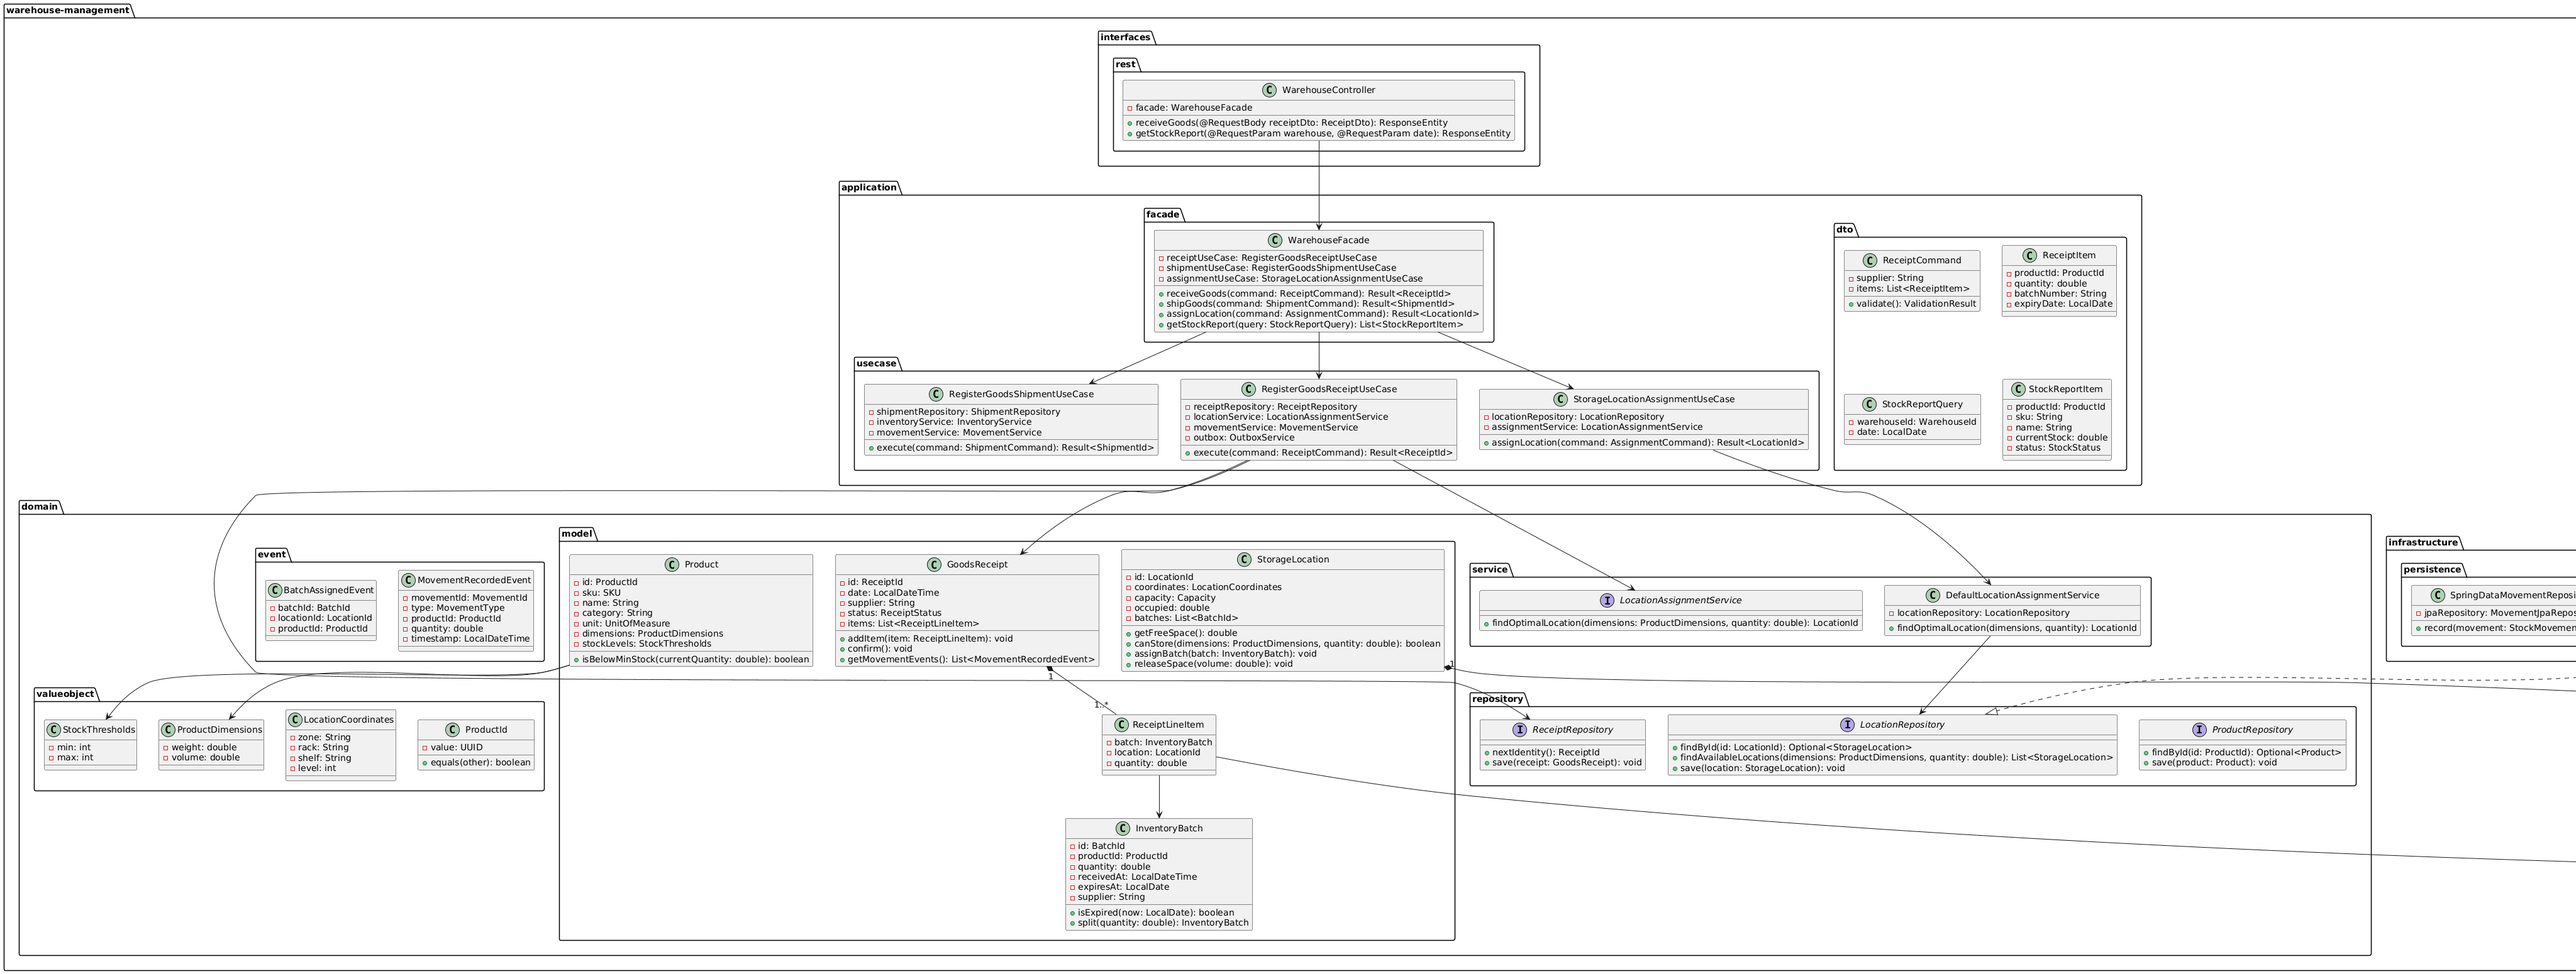
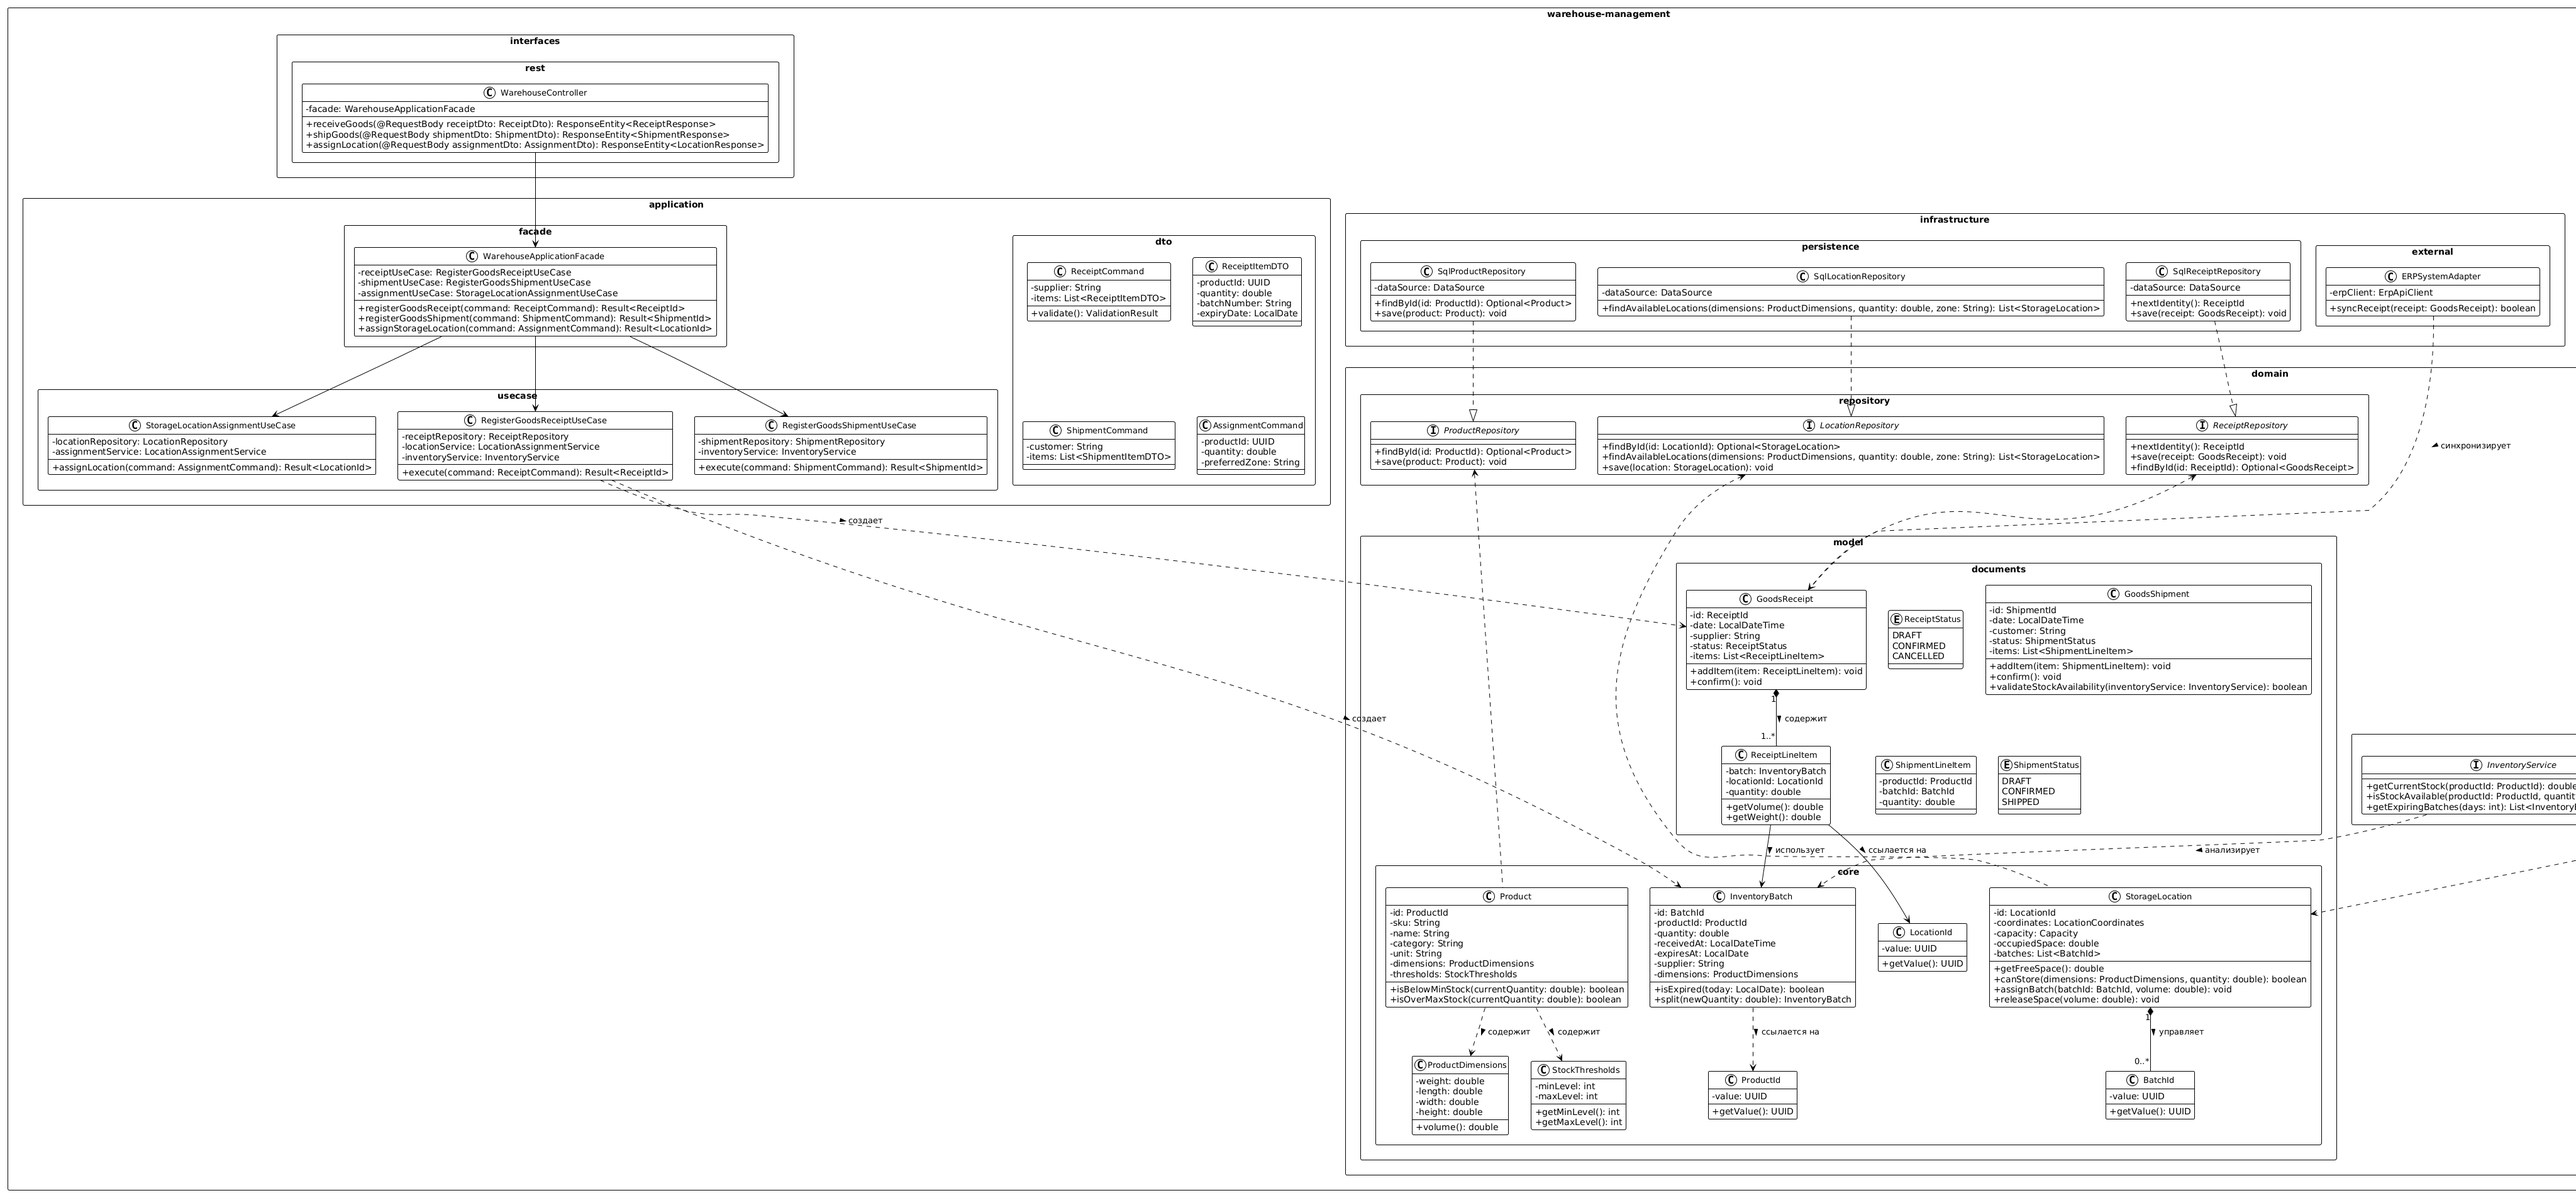
классы final

diff --git a/Диаграмма предментой области (диаграмма классов).md b/Диаграмма предментой области (диаграмма классов).md
@@ -1,4 +1,4 @@
-![alt text](./assets/class.png)
+![alt text](./assets/class.svg)
 
 ```
 @startuml
@@ -82,6 +82,7 @@ package "warehouse-management" {
         + isBelowMinStock(currentQuantity: double): boolean
       }
 
+      ' Компоновщик: StorageLocation и WarehouseSection
       class StorageLocation {
         - id: LocationId
         - coordinates: LocationCoordinates
@@ -92,6 +93,10 @@ package "warehouse-management" {
         + canStore(dimensions: ProductDimensions, quantity: double): boolean
         + assignBatch(batch: InventoryBatch): void
         + releaseSpace(volume: double): void
+        + addSubLocation(subLocation: StorageLocation): void
+        + removeSubLocation(subLocation: StorageLocation): void
+        + getChildLocations(): List<StorageLocation>
+        + isComposite(): boolean
       }
 
       class InventoryBatch {
@@ -105,21 +110,15 @@ package "warehouse-management" {
         + split(quantity: double): InventoryBatch
       }
 
-      class GoodsReceipt {
-        - id: ReceiptId
-        - date: LocalDateTime
-        - supplier: String
-        - status: ReceiptStatus
-        - items: List<ReceiptLineItem>
-        + addItem(item: ReceiptLineItem): void
-        + confirm(): void
-        + getMovementEvents(): List<MovementRecordedEvent>
-      }
-
-      class ReceiptLineItem {
-        - batch: InventoryBatch
-        - location: LocationId
-        - quantity: double
+      ' Компоновщик: WarehouseSection как композитный элемент
+      class WarehouseSection {
+        - id: SectionId
+        - name: String
+        - locations: List<StorageLocation>
+        + addLocation(location: StorageLocation): void
+        + removeLocation(location: StorageLocation): void
+        + getLocations(): List<StorageLocation>
+        + findAvailableSpace(dimensions: ProductDimensions, quantity: double): List<StorageLocation>
       }
     }
 
@@ -127,6 +126,14 @@ package "warehouse-management" {
       class ProductId {
         - value: UUID
         + equals(other): boolean
+      }
+
+      class BatchId {
+        - value: UUID
+      }
+
+      class LocationId {
+        - value: UUID
       }
 
       class LocationCoordinates {
@@ -148,6 +155,7 @@ package "warehouse-management" {
     }
 
     package "service" {
+      ' Стратегия: LocationAssignmentService и его реализации
       interface LocationAssignmentService {
         + findOptimalLocation(dimensions: ProductDimensions, quantity: double): LocationId
       }
@@ -156,6 +164,26 @@ package "warehouse-management" {
         - locationRepository: LocationRepository
         + findOptimalLocation(dimensions, quantity): LocationId
       }
+
+      ' Стратегия: реализация на основе ближайшего места
+      class NearestLocationAssignmentStrategy {
+        - locationRepository: LocationRepository
+        + findOptimalLocation(dimensions, quantity): LocationId
+      }
+
+      ' Стратегия: реализация на основе максимального заполнения
+      class MaxFillLocationAssignmentStrategy {
+        - locationRepository: LocationRepository
+        + findOptimalLocation(dimensions, quantity): LocationId
+      }
+
+      ' Контекст для стратегии
+      class LocationAssignmentContext {
+        - strategy: LocationAssignmentService
+        + setStrategy(strategy: LocationAssignmentService): void
+        + executeStrategy(dimensions: ProductDimensions, quantity: double): LocationId
+      }
+
     }
 
     package "event" {
@@ -188,34 +216,23 @@ package "warehouse-management" {
 
       interface ReceiptRepository {
         + nextIdentity(): ReceiptId
-        + save(receipt: GoodsReceipt): void
+        + save(receipt: Receipt): void
       }
     }
   }
 
   package "infrastructure" {
     package "persistence" {
-      class JpaLocationRepository {
+      class GenericLocationRepository {
         - entityManager: EntityManager
         + findAvailableLocations(dimensions, quantity): List<StorageLocation>
       }
 
-      class SpringDataMovementRepository {
-        - jpaRepository: MovementJpaRepository
+      class GenericMovementRepository {
         + record(movement: StockMovement): void
       }
     }
 
-    package "messaging" {
-      class RabbitMqEventPublisher {
-        - rabbitTemplate: RabbitTemplate
-        + publish(event: DomainEvent): void
-      }
-
-      interface OutboxService {
-        + schedule(event: DomainEvent, aggregateId: UUID): void
-      }
-    }
   }
 
   package "interfaces" {
@@ -229,29 +246,39 @@ package "warehouse-management" {
   }
 }
 
-WarehouseFacade --> RegisterGoodsReceiptUseCase
-WarehouseFacade --> RegisterGoodsShipmentUseCase
-WarehouseFacade --> StorageLocationAssignmentUseCase
+' Зависимости (Dependency)
+WarehouseFacade ..> RegisterGoodsReceiptUseCase
+WarehouseFacade ..> RegisterGoodsShipmentUseCase
+WarehouseFacade ..> StorageLocationAssignmentUseCase
 
-RegisterGoodsReceiptUseCase --> GoodsReceipt
-RegisterGoodsReceiptUseCase --> LocationAssignmentService
-RegisterGoodsReceiptUseCase --> ReceiptRepository
+RegisterGoodsReceiptUseCase ..> LocationAssignmentContext
+RegisterGoodsReceiptUseCase ..> ReceiptRepository
 
-StorageLocationAssignmentUseCase --> DefaultLocationAssignmentService
-DefaultLocationAssignmentService --> LocationRepository
+StorageLocationAssignmentUseCase ..> LocationAssignmentContext
+LocationAssignmentContext ..> LocationAssignmentService
+DefaultLocationAssignmentService ..|> LocationAssignmentService
+NearestLocationAssignmentStrategy ..|> LocationAssignmentService
+MaxFillLocationAssignmentStrategy ..|> LocationAssignmentService
 
-GoodsReceipt "1" *-- "1..*" ReceiptLineItem
-ReceiptLineItem --> InventoryBatch
-ReceiptLineItem --> LocationId
+GenericLocationRepository ..|> LocationRepository
 
-StorageLocation "1" *-- "0..*" BatchId
-Product --> StockThresholds
-Product --> ProductDimensions
+WarehouseController ..> WarehouseFacade
 
-JpaLocationRepository ..|> LocationRepository
-RabbitMqEventPublisher ..|> EventPublisher
+' Агрегация (Aggregation)
+WarehouseSection o-- StorageLocation
+InventoryBatch --> ProductId
+InventoryBatch --> LocationId
 
-WarehouseController --> WarehouseFacade
+' Композиция (Composition)
+StorageLocation *-- BatchId
+Product *-- StockThresholds
+Product *-- ProductDimensions
+
+' Наследование/Реализация (Generalization)
+DefaultLocationAssignmentService <|-- LocationAssignmentService
+NearestLocationAssignmentStrategy <|-- LocationAssignmentService
+MaxFillLocationAssignmentStrategy <|-- LocationAssignmentService
+GenericLocationRepository <|-- LocationRepository
 
 @enduml
 ```
